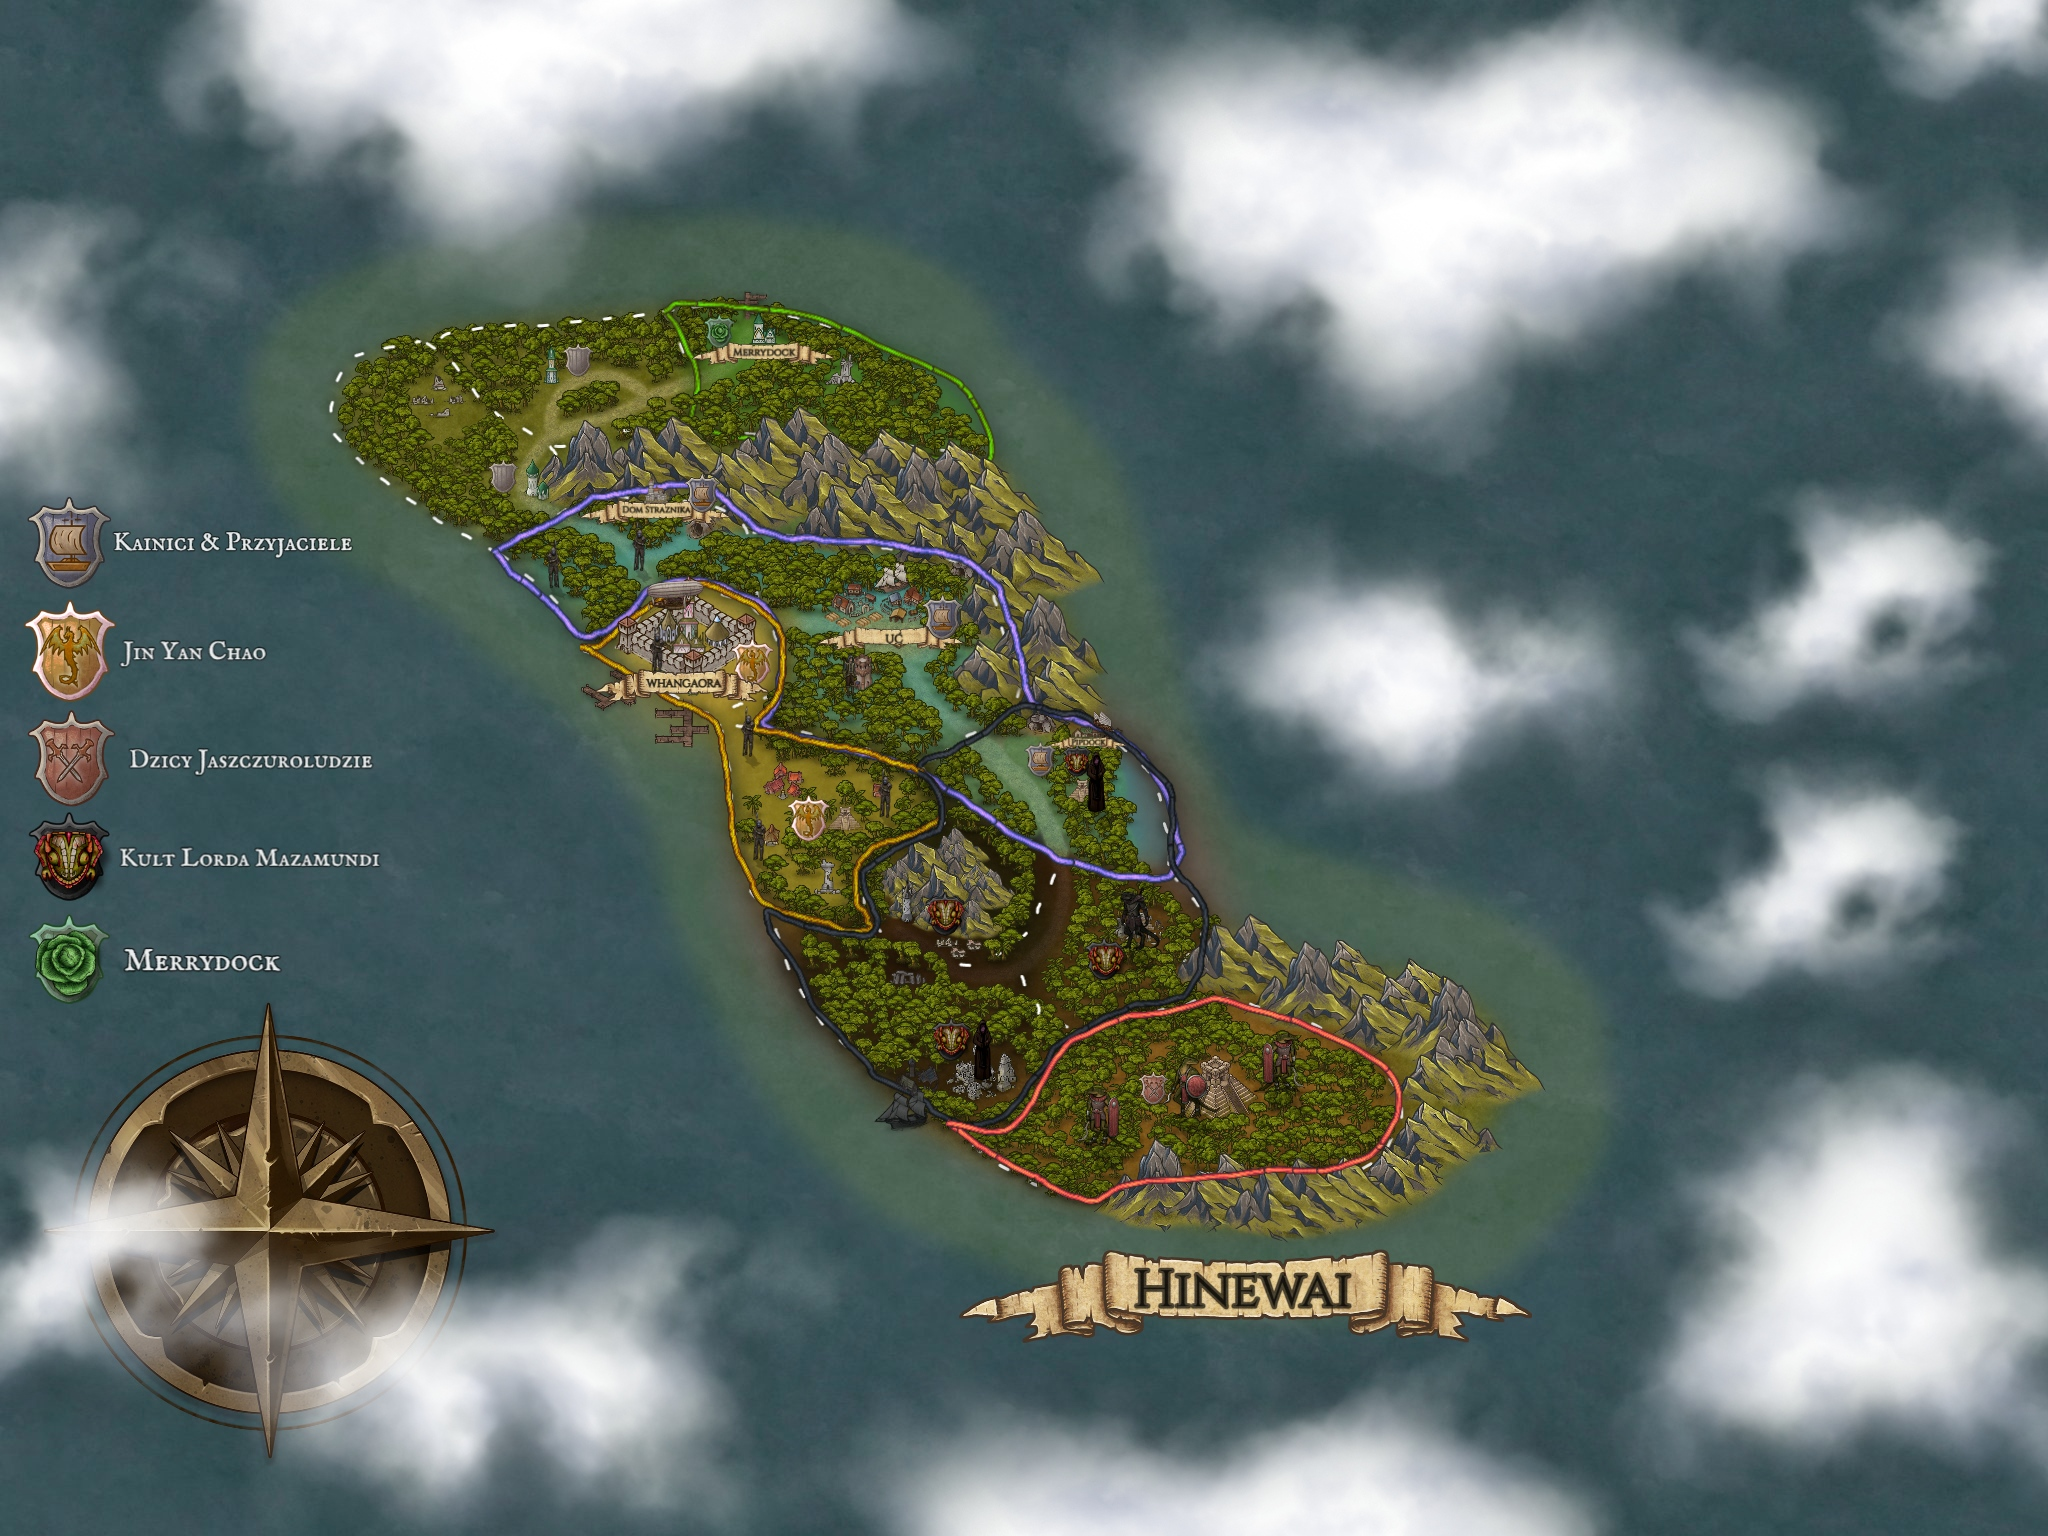
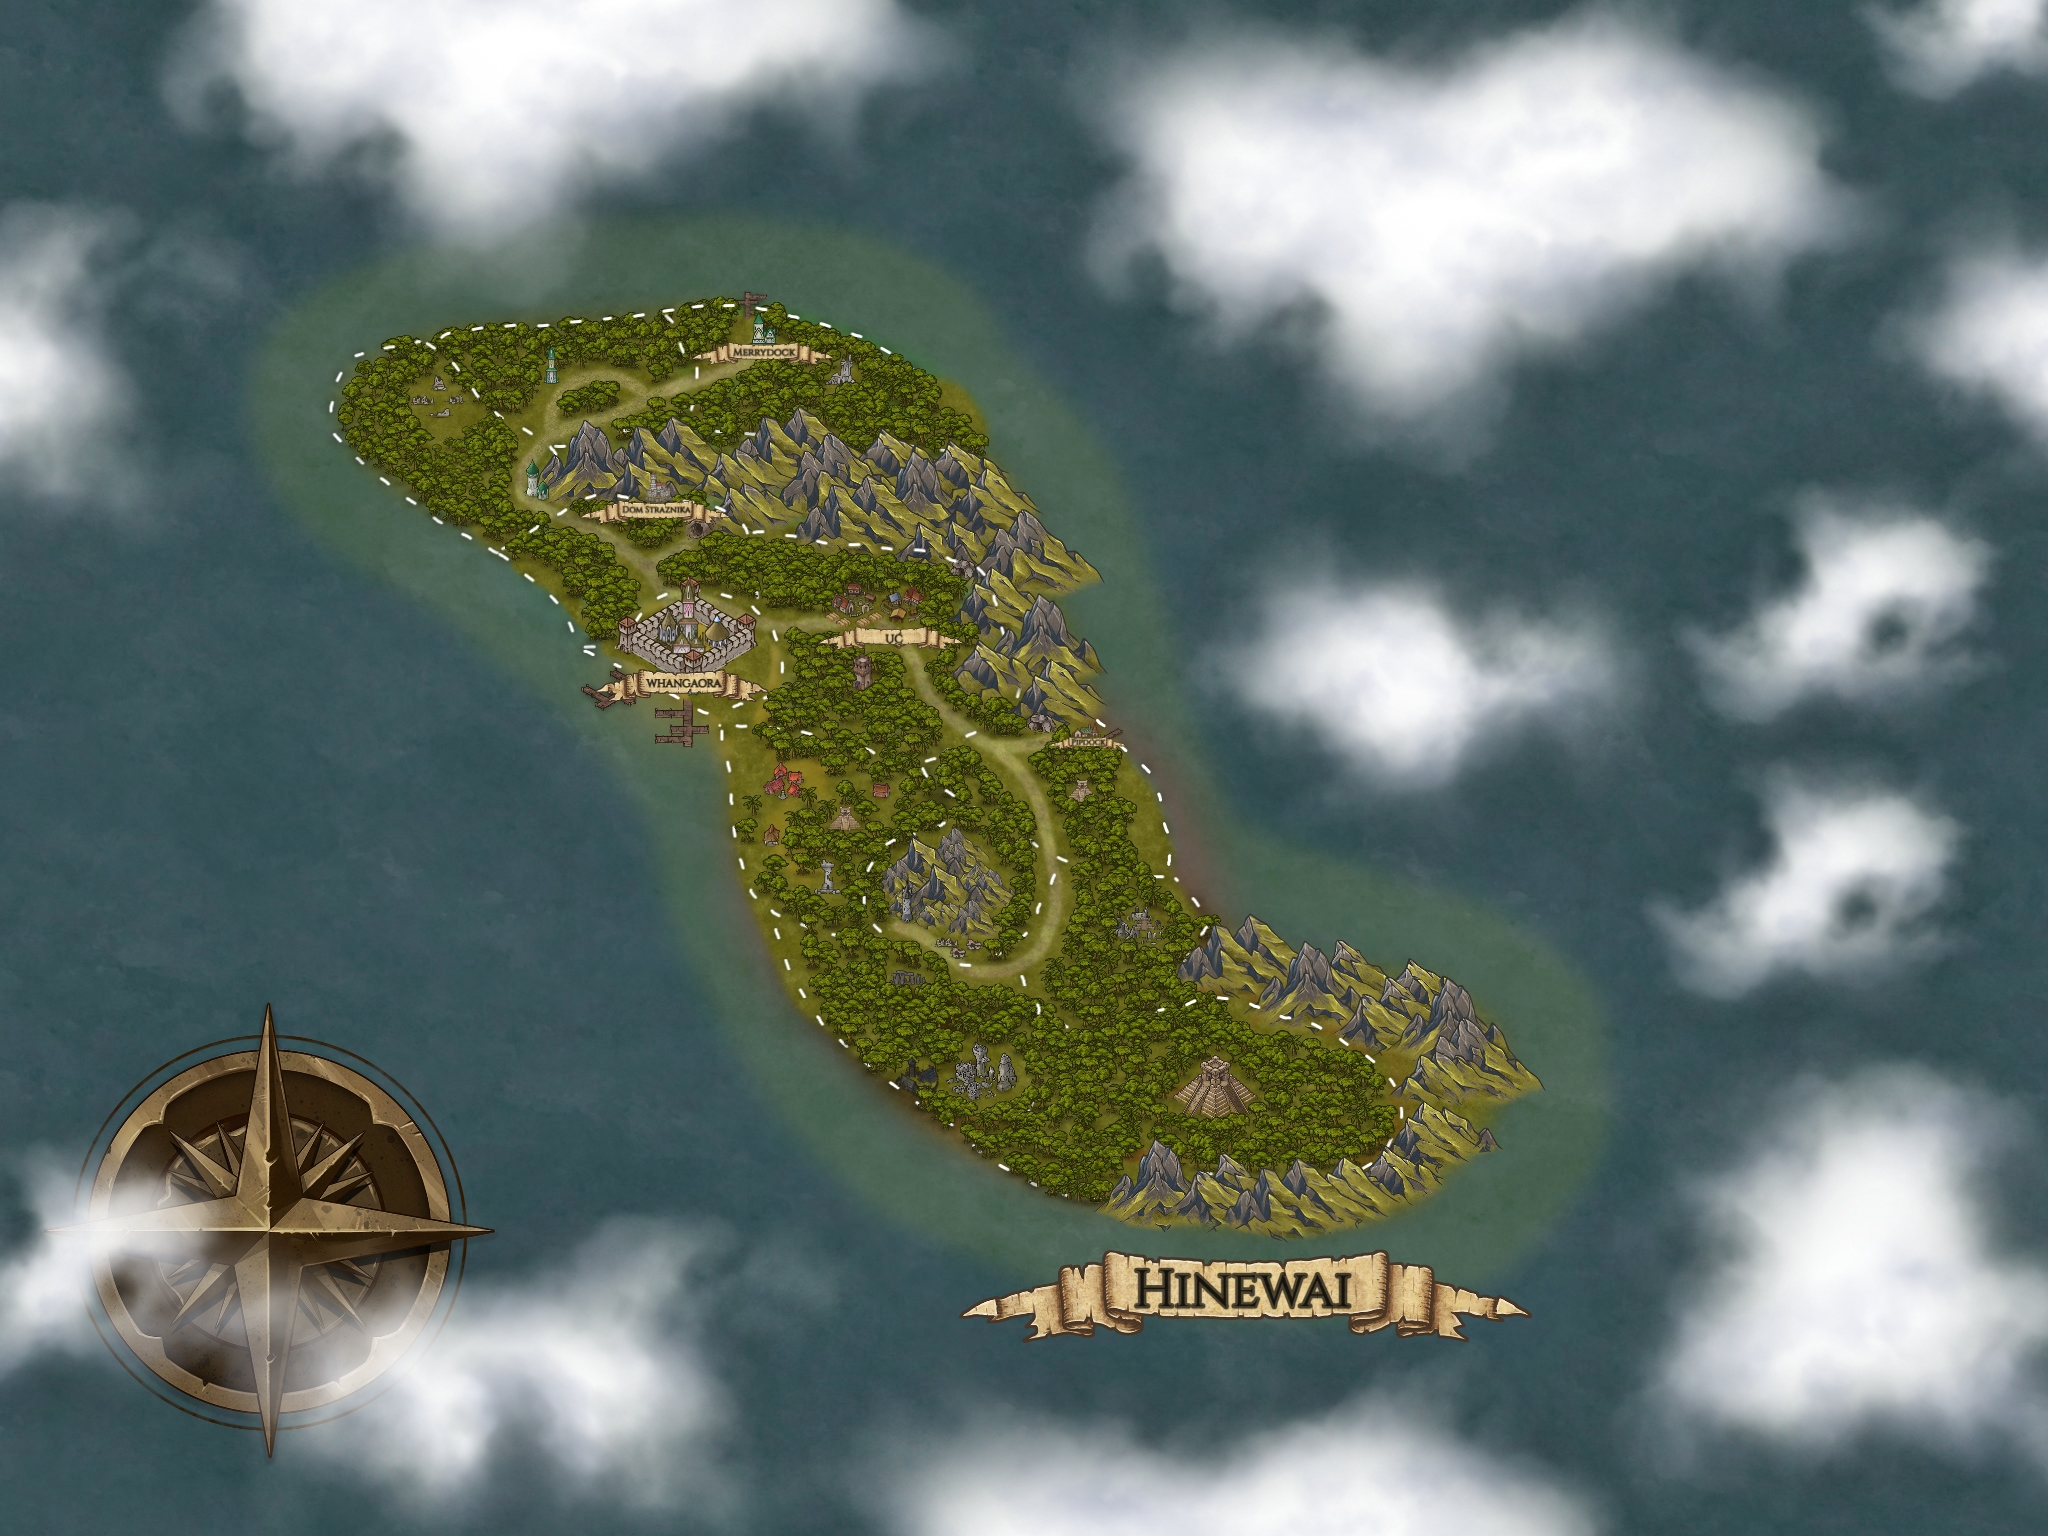
feat: clear map 3

diff --git a/components/map/InteractiveMap.tsx b/components/map/InteractiveMap.tsx
@@ -87,7 +87,7 @@ export function InteractiveMap() {
         <div className="overflow-hidden rounded-2xl border border-slate-800 bg-slate-900 p-3">
           <div className="relative overflow-hidden rounded-xl">
             <Image
-              src="/images/Hinewai-clear.jpg"
+              src="/images/hinewai-map.jpg"
               alt="Strategic map of Hinewai"
               width={1408}
               height={1024}